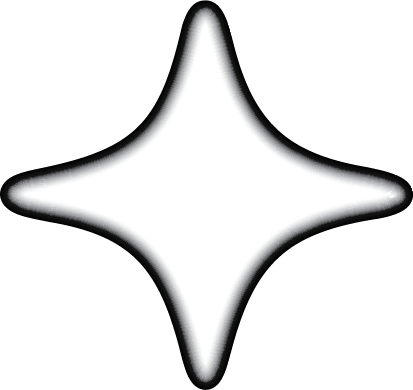
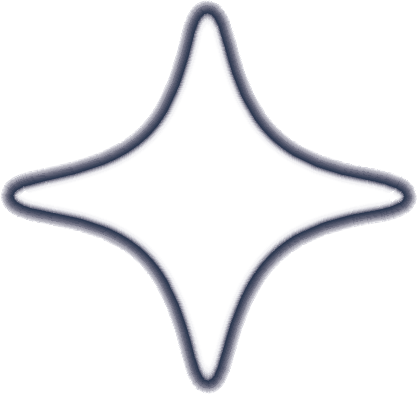
Made center star frame scalable

Changed region(s): [[0.0, 0.0, 1.0, 1.0]]

diff --git a/CART263-Project1-GalleryV1/js/galleryStarFrame.js b/CART263-Project1-GalleryV1/js/galleryStarFrame.js
@@ -1,12 +1,7 @@
 
 //Background gallery stars
 class galleryStarFrame {
-    constructor(x, y, width, height) {
-        //variables given value when calling function
-        this.x = x;
-        this.y = y;
-        this.width = width;
-        this.height = height;
+    constructor() {
 
         // Make the wrapper div
         this.body = document.createElement("div");
@@ -18,41 +13,23 @@ class galleryStarFrame {
     renderGalleryStars() {
         // Wrapper div
         this.body.classList.add("starFrame");
-        this.body.style.position = "absolute";
-        this.body.style.left = this.x + "px";
-        this.body.style.top = this.y + "px";
-        this.body.style.transform = "translate(-50%, -50%)";
-        this.body.style.width = this.width + "px";
-        this.body.style.height = this.height + "px";
 
+        // white star background layer, masks animated star
+        this.backgroundLayer = document.createElement("img");//makes an img element, controled by css .starFrame img
+        this.backgroundLayer.src = "./media/starFrameBackground.png";//gives the white background img location
 
         // graffiti img layer
-        this.graffitiLayer = document.createElement("img");//makes an img element
-        this.graffitiLayer.src = "./media/starFrameFill.png";//gives the graffiti img location
-        this.graffitiLayer.style.width = "100%";//how wide is your img compared to div
-        this.graffitiLayer.style.height = "100%";//how tall is your img compared to div
-        this.graffitiLayer.style.objectFit = "contain";//when img scales maintains orginal asset ratios
-        this.graffitiLayer.style.position = "absolute";//can put element anywhere on canvas no hierarchy compared to other elements
-        this.graffitiLayer.style.left = "0px";
-        this.graffitiLayer.style.top = "0px";
-        this.graffitiLayer.style.pointerEvents = "none"; // don't block mouse
-
+        this.graffitiLayer = document.createElement("img");//makes an img element, controled by css .starFrame img
+        this.graffitiLayer.src = "./media/starFrameFill.png";//gives the graffiti fill img location
 
         // star image
-        let starImg = document.createElement("img");
-        starImg.src = "./media/starFrame.png";
-        starImg.style.width = "100%";
-        starImg.style.height = "100%";
-        starImg.style.objectFit = "contain";
-        starImg.style.position = "absolute"; // Stack it inside the wrapper
-        starImg.style.left = "0px";
-        starImg.style.top = "0px";
-
-
+        this.outlineLayer = document.createElement("img");//makes an img element, controled by css .starFrame img
+        this.outlineLayer.src = "./media/starFrame.png";//gives the star outline img location
 
         // Put it all together
+        this.body.appendChild(this.backgroundLayer);
         this.body.appendChild(this.graffitiLayer);
-        this.body.appendChild(starImg);
+        this.body.appendChild(this.outlineLayer);
 
         document.querySelector("main").appendChild(this.body);
     }

diff --git a/CART263-Project1-GalleryV1/js/gallery.js b/CART263-Project1-GalleryV1/js/gallery.js
@@ -5,7 +5,7 @@ window.onload = function () {
 
         galleryStarFrame: [],
 
-        galleryCircleCursor: [],
+        galleryCircleCursor: [],//only one created
 
     };
 
@@ -20,8 +20,7 @@ window.onload = function () {
             let h = Math.floor(Math.random() * 5 + 1) * 20;
 
             //color of stars
-            // let tint = `rgb(${Math.random() * 255}, ${Math.random() * 255}, ${Math.random() * 255})`;//does random color change with 100% opacity on mask tint layer
-            let tint = `rgb(${255}, ${255}, ${255})`;//makes stars white
+            let tint = `rgb(${18}, ${20}, ${255})`;//does random color change with 100% opacity on mask tint layer
 
             //creates stars
             let star = new galleryStar(x, y, w, h, tint);
@@ -55,34 +54,19 @@ window.onload = function () {
     animateGalleryStars();
 
 
-
+    //creates star frame
     function createGalleryStarFrame() {
-        //create star frame
-
-        //defines stars' variables
-        let x = window.innerWidth / 2;
-        let y = window.innerHeight / 2;
-        let w = 500;
-        let h = 500;
-
-        //color of stars
-        let graffitiOpacity = 1;//makes full opacity
-
-        //creates stars
-        let starFrame = new galleryStarFrame(x, y, w, h, graffitiOpacity);
-
-        //puts info of created stars in array
-        gallery.galleryStarFrame.push(starFrame);//pushes bee into bees array
-
+        //creates star frame
+        let starFrame = new galleryStarFrame();
+        //puts info of created star frame in array
+        gallery.galleryStarFrame.push(starFrame);
     }
 
-    //draws all the stars on the gallery page background
+    //draws star frame on gallery page
     function renderGalleryStarFrame() {
         // renders all stars, set num of stars at top in gallery
-
-        let starFrame = gallery.galleryStarFrame[0];
+        let starFrame = gallery.galleryStarFrame[0];//0 because only one star frame is created
         starFrame.renderGalleryStars();
-
     }
 
     //calls all functions for Gallery Star Frame
@@ -100,7 +84,7 @@ window.onload = function () {
 
         let circleCursor = new galleryCircleCursor(x, y, w, h, r);
 
-        gallery.galleryCircleCursor.push(circleCursor);//pushes bee into bees array
+        gallery.galleryCircleCursor.push(circleCursor);
 
     }
 
@@ -115,9 +99,5 @@ window.onload = function () {
     createGalleryCircleCursor()
     renderGalleryCircleCursor()
 
-    let starFrame = gallery.galleryStarFrame[0];
-    let cursor = gallery.galleryCircleCursor[0];
 
-    cursor.renderGalleryCircleCursor();
-    cursor.animateGalleryCircleCursor(starFrame.graffitiLayer);
 }

diff --git a/CART263-Project1-GalleryV1/gallery_style.css b/CART263-Project1-GalleryV1/gallery_style.css
@@ -1,5 +1,26 @@
 body {
     margin: 0px;
     overflow: hidden;
-    background-color: #000000;
+    background-color: #ffffff;
+}
+
+/*do in css so if there is browser resizing the star keeps the same ratio*/
+.starFrame {
+    /*makes it so center always fixed in the center*/
+    position: fixed;
+    left: 50%;
+    top: 50%;
+    transform: translate(-50%, -50%);
+
+    width: 75vw;
+    height: 75vh;
+}
+
+.starFrame img {
+    position: absolute;
+    left: 0;
+    top: 0;
+    width: 100%;
+    height: 100%;
+    pointer-events: none;
 }
